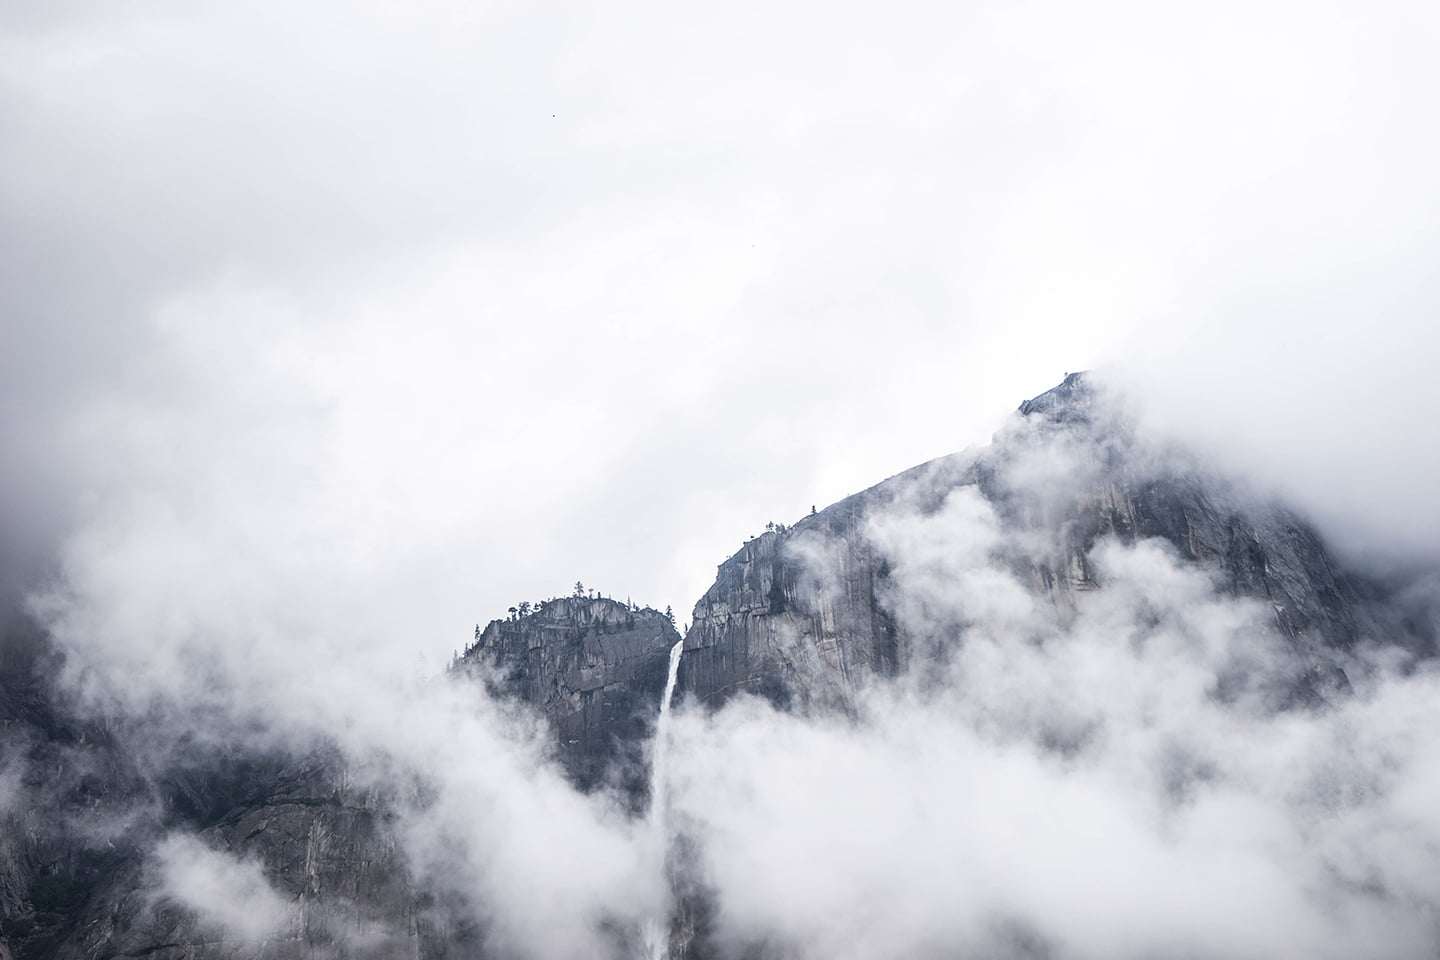
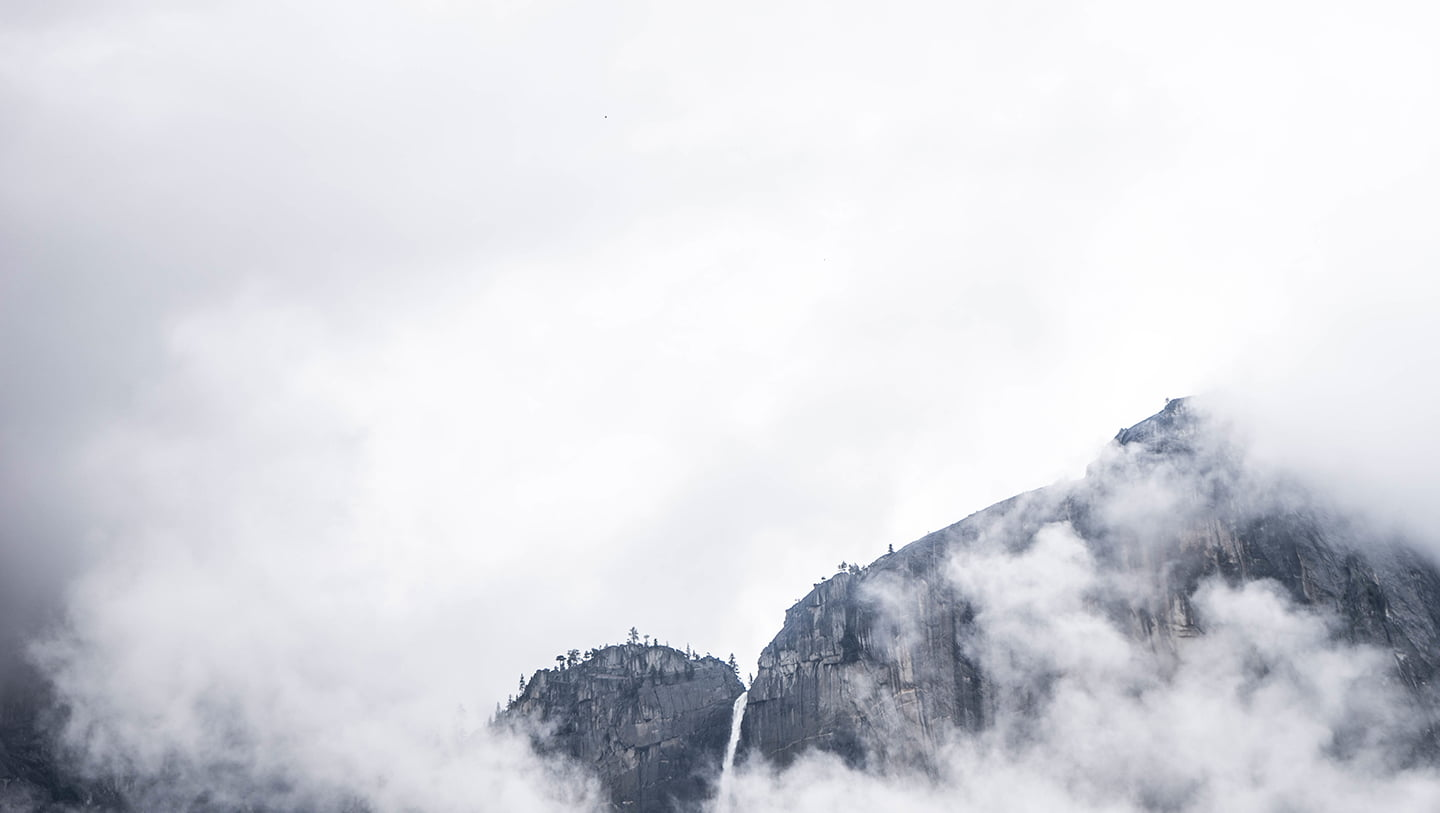
made a website header (with pixel perfect)

diff --git a/assets/styles/style.css b/assets/styles/style.css
@@ -9,11 +9,94 @@ body {
 }
 .visually-hidden {
   position: absolute;
-  clip: rect(0 0 0 0);
   width: 1px;
   height: 1px;
   margin: -1px;
   border: 0;
   padding: 0;
+  clip: rect(0 0 0 0);
   overflow: hidden;
+}
+main {
+  max-width: 1440px;
+  margin-left: auto;
+  margin-right: auto;
+}
+.main-header {
+  padding-top: 215px;
+  padding-bottom: 223px;
+  background-image: url(../images/mounts-1440w.jpg);
+}
+.main-header__content {
+  display: flex;
+  flex-direction: column;
+  max-width: 750px;
+  margin-left: auto;
+  margin-right: auto;
+  align-items: center;
+}
+.slogan {
+  margin-bottom: 41px;
+  font-size: 60px;
+  line-height: 75px;
+  letter-spacing: 1.8px;
+  color: #282828;
+  font-weight: 100;
+  text-align: center;
+}
+.button-play {
+  position: relative;
+  width: 60px;
+  height: 60px;
+  margin-bottom: 38px;
+  background-color: #8185a3;
+  border: 0px;
+  border-radius: 50%;
+}
+.button-play::before {
+  content: "";
+  position: absolute;
+  top: 20px;
+  left: 24px;
+  display: block;
+  width: 17px;
+  height: 19px;
+  background-image: url(../images/icon-triangle.svg);
+}
+.button-play:hover {
+  background-color: #67697a;
+}
+.button-play:hover .button-play::before {
+  top: 23px;
+  left: 27px;
+}
+.button {
+  width: 192px;
+  margin-bottom: 15px;
+  padding-top: 13px;
+  padding-bottom: 13px;
+  font-size: 16px;
+  font-weight: 400;
+  letter-spacing: 2.7px;
+  color: #ffffff;
+  text-transform: uppercase;
+  background-color: #ff6d6d;
+  border: 0;
+  border-radius: 3px;
+}
+.button:hover {
+  background-color: #bf6d6d;
+}
+.footnote {
+  font-size: 14px;
+  letter-spacing: 0.3px;
+  color: #282828;
+}
+@media screen and (min-width: 1441px) {
+  main {
+    max-width: 1920px;
+  }
+  .main-header {
+    background-image: url(../images/mounts-1920w.jpg);
+  }
 }

diff --git a/index.html b/index.html
@@ -17,12 +17,12 @@
     <main>
       <h1 class="visually-hidden">Corporate landing page</h1>
       <header class="main-header">
-        <p class="slogan">There is no other platforms for you as like</p>
-        <button class="button-play">
-          <img src="./assets/images/icon-triangle.svg" alt="Button play" />
-        </button>
-        <button class="button">Try now</button>
-        <p>* No need to add cards details</p>
+        <div class="main-header__content">
+          <p class="slogan">There is no other platforms for you as like</p>
+          <button class="button-play"></button>
+          <button class="button">Try now</button>
+          <p class="footnote">* No need to add cards details</p>
+        </div>
       </header>
       <section class="new-design new-design--first">
         <span>New design</span>
